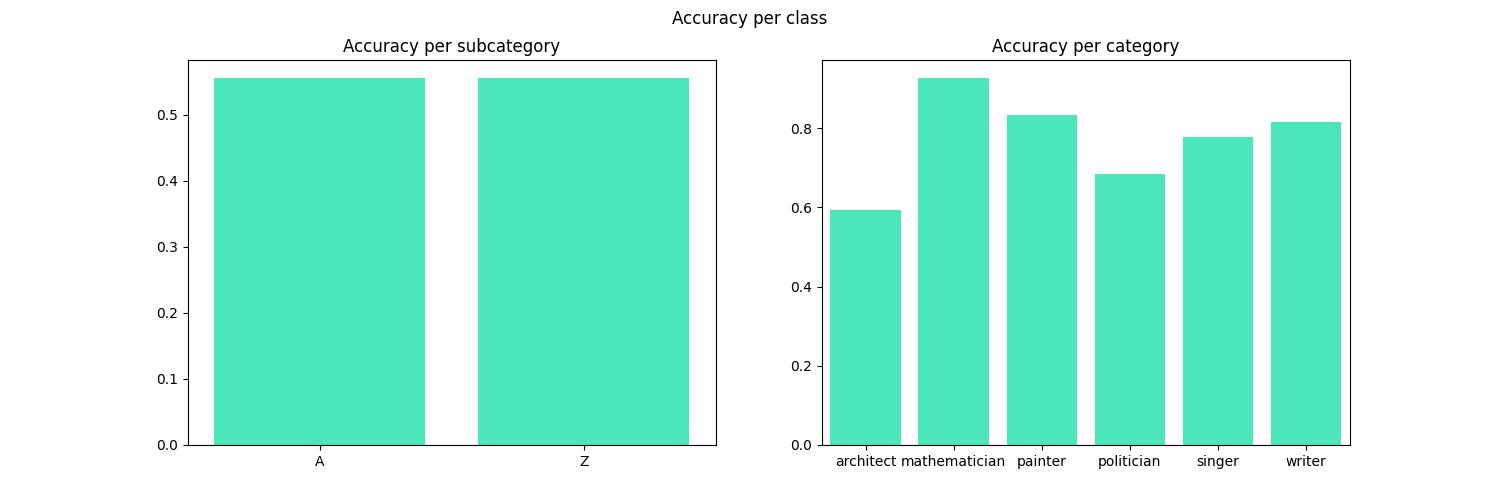
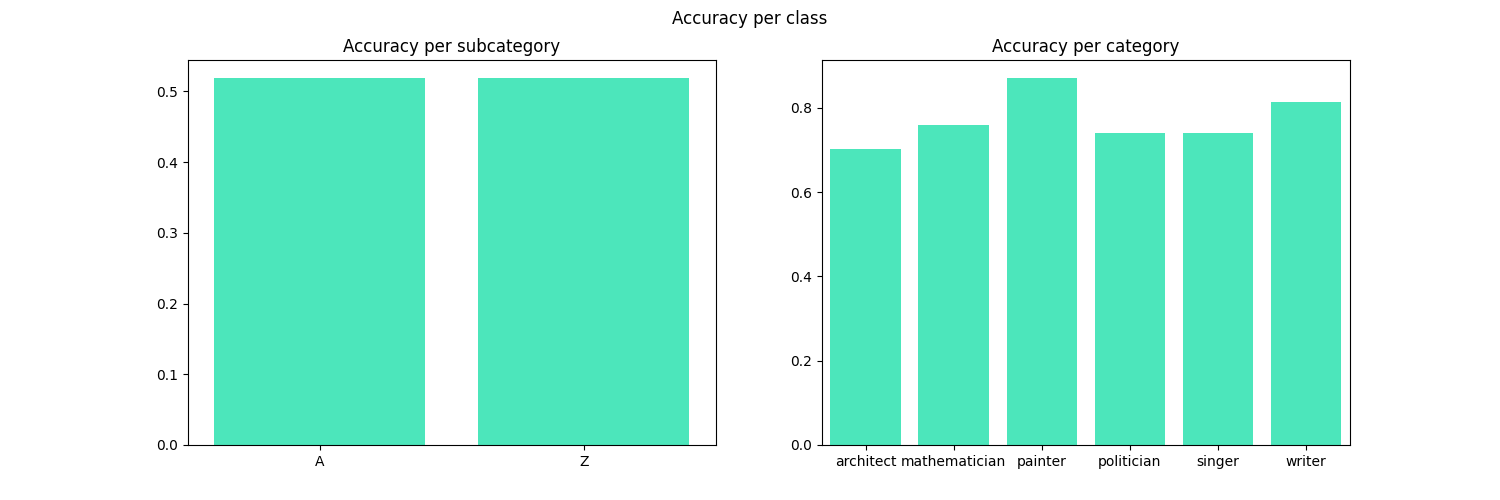
readme added

diff --git a/README.md b/README.md
@@ -1,3 +1,106 @@
 ## UE 803: Data Science
 # Project: Clustering and Classifying People based on Text and KB information
 
+## Installation
+
+1. cd to the directory where ```requirements.txt``` is located;
+
+2. activate your virtualenv;
+3. run: `pip install -r requirements.txt` in your shell.
+
+## Usage
+
+In order to obtain all the results, it is necessary to run 4 following commands:
+
+```python3 scripts/corpus_extraction.py --n_people 30 --n_sentences 10 --verbose```
+
+```python3 scripts/preprocessing.py --input data/data.csv --output data/preprocessed_data.csv --verbose```
+
+```python3 scripts/clustering.py --input data/preprocessed_data.csv --verbose```
+
+```python3 scripts/classification.py --input data/preprocessed_data.csv --verbose```
+
+**```corpus_extraction.py```** script extracts the wikidata articles ids using the sparqle query on wikidata data. These articles should contain one of the following keywords: *architect, mathematician, painter, politician, singer or writer*. This script automatically creates an additional file ```data/keywords_ids.json``` where all the ids related to the given keywords are stored (if provided, the script will use this file instead of parsing wikidata as it takes time to run it from scratch). After retrieveing all the ids, the script extracts *M* (```n_people``` param) articles from each category and stores their title, description and *N* (```n_sentences``` param) sentences from the main text. The result is then stored into the ```data/data.csv``` file. 
+
+**```preprocessing.py```** script takes as an input the path to the csv file (--input param, default value is ```data/data.csv```) with the data and processes it using the following transformations (these are the default values in the ```Preprocess``` class which may be changed there): 
+
+- Lower casing
+- Removing the stop words
+- Removing the punctuation
+- Removing all the letters that are not from the English alphabet
+- Lemmatizing
+
+the preprocessed file is then stored into the default (```data/preprocessed_data.csv```) file or another one defined in the ```--output``` param. 
+
+**```clustering.py```** script takes as an input the path to the preprocessed csv file which will be used for training the KMeans algorithm (```--input param```). All the data is preprocessed using three methods: tf-idf, token presence and token frequency. Two ways of clustering are applied: clustering into 2 classes and claustering into 6 classes. The results of the algorithm with the default parameters are then stored into the ```data/Clustering results.csv``` (a comparison table) and ```data/Clustering visualization.png``` (a comparison plot) files. 
+
+**```classification.py```** script  takes as an input the path to the preprocessed csv file which will be used for training the Percetron algorithm. All the data is preprocessed using Tf-Idf Vectorizer. The results of the algorithm with th default parameters are stored into the data folder. The files are:
+
+- ```Confusion matrix 6 classes.png``` with the confusion matrix for the 6 class classification
+
+- ```Confusion matrix 2 classes.png``` with the confusion matrix for the 2 class classification
+
+- ```Scores 6 classes.csv``` with the Recall, Precision and F-score computed for the 6 class classification
+
+- ```Scores 2 classes.csv``` with the Recall, Precision and F-score computed for the 2 class classification
+
+- ```Accuracy visualization.png``` with the comparison of the per class acurracy for the 2 and 6 class classification algorithms. The metric is defined by the following formula: (TP+TN)/(TP+TN+FP+FN), where TP are correct cases for the target category, TN are correct cases when an example was not classified as a target category. 
+
+   
+
+All the scripts have the ```--verbose``` param which activates printing out the main steps of the algortihms during their execution.
+
+## Results
+
+These are the results obtained on the data stored in the ```data``` directory:
+
+**Clusterization**:
+
+![Clustering visualization](/Users/anna/Documents/GitHub/clustering-and-classifying-people/data/Clustering visualization.png)
+
+
+
+| **2 clust., tf-idf**       | **6 clust., tf-idf** | **2 clust., tokens** | **6 clust., tokens** | **2 clust., token freq** | **6 clust., token freq** |
+| -------------------------- | -------------------- | -------------------- | -------------------- | ------------------------ | ------------------------ |
+| **0.00422224586443926**    | 0.07869913816783629  | 0.005577943863212365 | 0.06770759388899555  | 0.012803360133562881     | 0.1727469447581936       |
+| **0.005149298161543911**   | 0.08312414696925129  | 0.1124266459657679   | 0.13524027725716187  | 0.01931815408279083      | 0.17548881502174843      |
+| **0.004639919058601989**   | 0.08085114230470347  | 0.010628561496381642 | 0.09023788934813323  | 0.015400101139173863     | 0.17410708569045097      |
+| **0.00019394127458205655** | 0.022563581695685914 | 0.0                  | 0.032766745688207234 | 0.006836040880631517     | 0.08332501447481383      |
+| **0.0031097721509188406**  | 0.006967920192568018 | 0.5711080500748351   | 0.017397227636989858 | 0.1703049285016345       | 0.05498191279222395      |
+
+**Classification**:
+
+**2 class classification:**
+
+![Confusion matrix 2 classes](/Users/anna/Documents/GitHub/clustering-and-classifying-people/data/Confusion matrix 2 classes.png)
+
+|                  | **precision** | **recall** | **f1-score** | **support** |
+| ---------------- | ------------- | ---------- | ------------ | ----------- |
+| **A**            | 0.11          | 0.6        | 0.19         | 5.0         |
+| **Z**            | 0.93          | 0.51       | 0.66         | 49.0        |
+| **accuracy**     | 0.52          | 0.52       | 0.52         | 0.52        |
+| **macro avg**    | 0.52          | 0.56       | 0.42         | 54.0        |
+| **weighted avg** | 0.85          | 0.52       | 0.61         | 54.0        |
+
+**6 class classification:**
+
+![Confusion matrix 6 classes](/Users/anna/Documents/GitHub/clustering-and-classifying-people/data/Confusion matrix 6 classes.png)
+
+|                   | **precision** | **recall** | **f1-score** | **support** |
+| ----------------- | ------------- | ---------- | ------------ | ----------- |
+| **architect**     | 0.33          | 0.23       | 0.27         | 13.0        |
+| **mathematician** | 0.22          | 0.25       | 0.24         | 8.0         |
+| **painter**       | 0.22          | 1.0        | 0.36         | 2.0         |
+| **politician**    | 0.11          | 0.14       | 0.12         | 7.0         |
+| **singer**        | 0.56          | 0.33       | 0.42         | 15.0        |
+| **writer**        | 0.44          | 0.44       | 0.44         | 9.0         |
+| **accuracy**      | 0.31          | 0.31       | 0.31         | 0.31        |
+| **macro avg**     | 0.31          | 0.4        | 0.31         | 54.0        |
+| **weighted avg**  | 0.36          | 0.31       | 0.32         | 54.0        |
+
+**Comparison**:
+
+![Accuracy visualization](/Users/anna/Documents/GitHub/clustering-and-classifying-people/data/Accuracy visualization.png)
+
+
+
